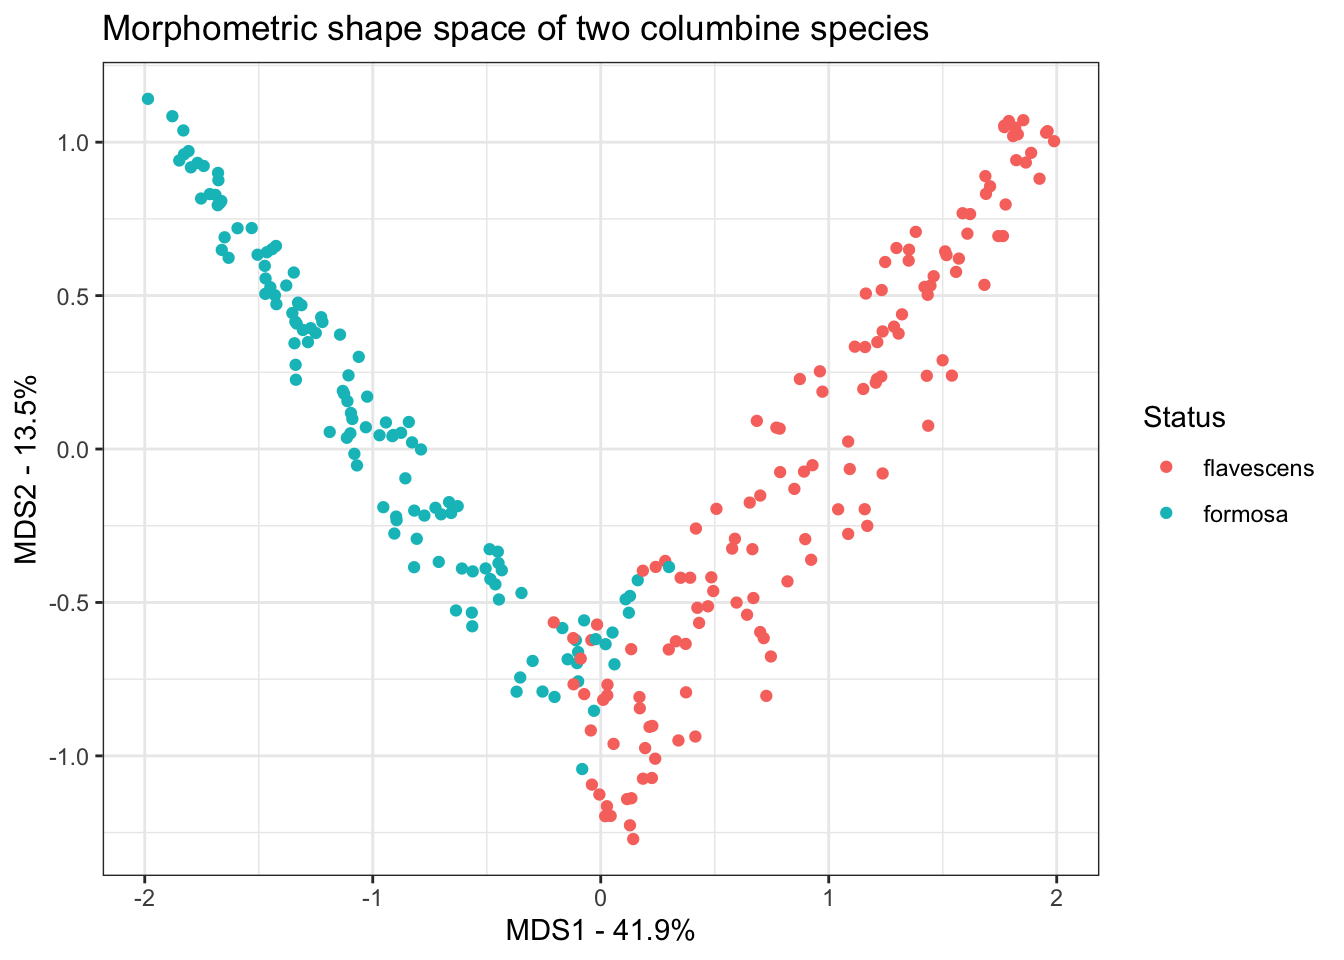
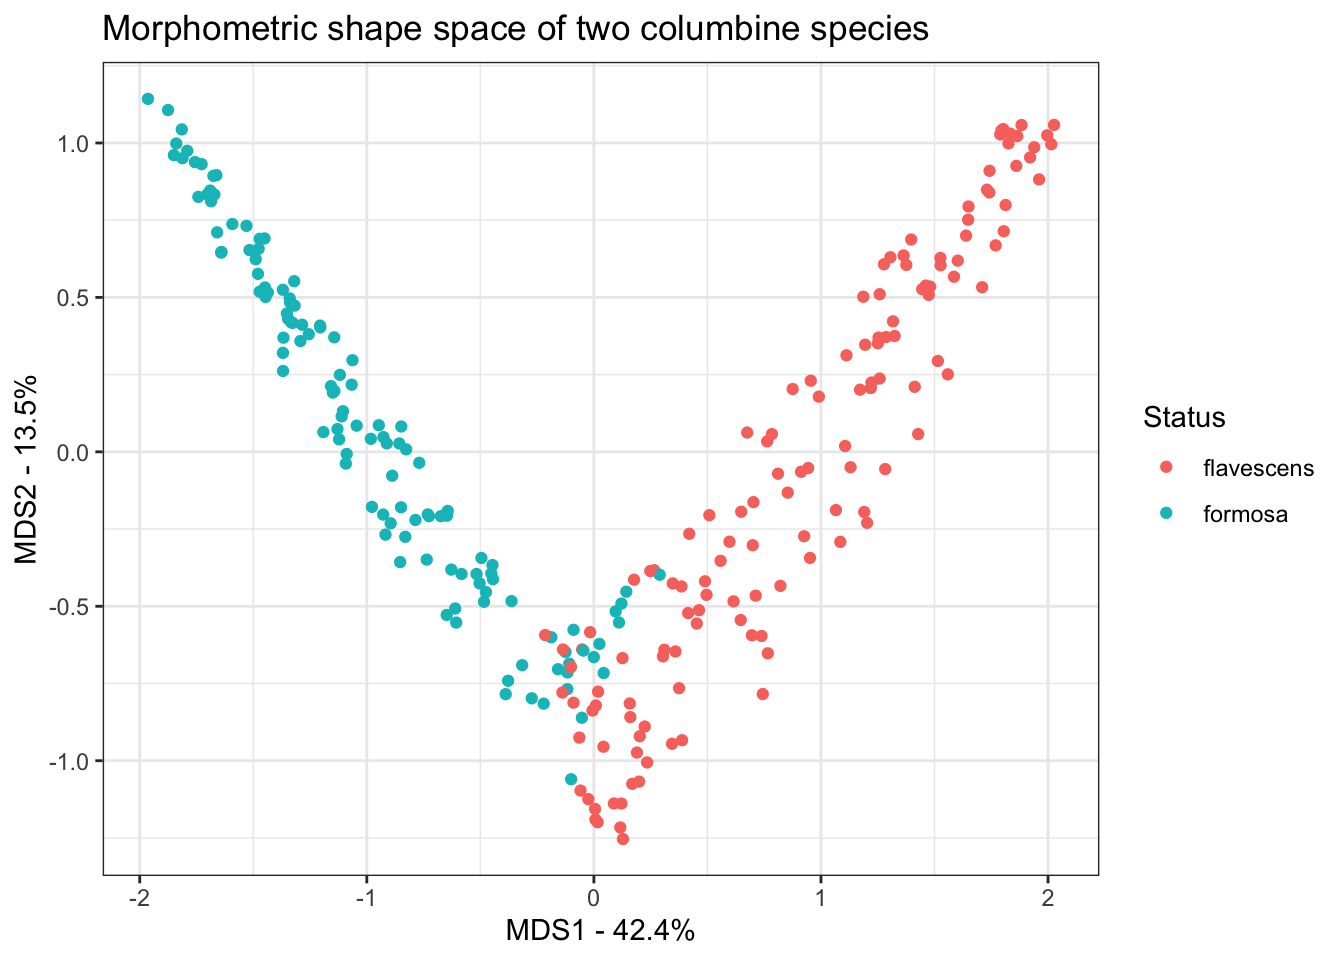
Built lab webpage including linnean typification

diff --git a/docs/BIOL_324_Lab_8.html b/docs/BIOL_324_Lab_8.html
@@ -451,6 +451,9 @@ div.tocify {
     <li>
       <a href="BIOL_324_Project_1.html">Project 1 (iNaturalist)</a>
     </li>
+    <li>
+      <a href="LinneanTypification.html">Linnean Typification</a>
+    </li>
   </ul>
 </li>
 <li class="dropdown">
@@ -768,7 +771,7 @@ div.tocify {
 <span id="cb7-3"><a href="#cb7-3"></a>mds.var.per &lt;-<span class="st"> </span><span class="kw">round</span>(mds.analysis<span class="op">$</span>eig<span class="op">/</span><span class="kw">sum</span>(mds.analysis<span class="op">$</span>eig)<span class="op">*</span><span class="dv">100</span>, <span class="dv">1</span>)</span>
 <span id="cb7-4"><a href="#cb7-4"></a></span>
 <span id="cb7-5"><a href="#cb7-5"></a>mds.var.per[<span class="dv">1</span><span class="op">:</span><span class="dv">2</span>]</span></code></pre></div>
-<pre><code>## [1] 41.9 13.5</code></pre>
+<pre><code>## [1] 42.4 13.5</code></pre>
 <p>The <code>cmdscale()</code> function finds the axes of greatest variation in our morphometrics dataset. For example, if corolla width was the trait that varied the most between all specimens, <code>cmdscale()</code> would assign this variable as <em>MDS axis 1</em>. In reality, it’s unlikely that a single trait will explain the greatest variation in morphology, instead, MDS axes tend to be combinations of traits. In the second step we calculated how much of the total variation of the dataset belongs to each of the MDS axes. The third step prints MDS axes 1 and 2, telling us that MDS axis 1 accounts for 42.3% of the morphological variation in the dataset. Each <em>Aquilegia</em> specimen exists somewhere in the ‘shape space’ created by MDS axes 1 and 2. For example, if MDS axes 1 and 2 described variation in corolla and sepal width, respectively, <em>Aquilegia</em> specimens with wide corollas and sepals would exist in the upper right corner of this ‘shape space’. We’ll see what this looks like in the plotting step. We’ll store the shape space location of each <em>Aquilegia</em> sample in an object called <code>mds.data</code>:</p>
 <div class="sourceCode" id="cb9"><pre class="sourceCode r"><code class="sourceCode r"><span id="cb9-1"><a href="#cb9-1"></a>mds.values &lt;-<span class="st"> </span>mds.analysis<span class="op">$</span>points</span>
 <span id="cb9-2"><a href="#cb9-2"></a>mds.data &lt;-<span class="st"> </span><span class="kw">data.frame</span>(<span class="dt">Sample =</span> <span class="kw">rownames</span>(mds.values),</span>

diff --git a/docs/LinneanTypification.html b/docs/LinneanTypification.html
@@ -359,6 +359,9 @@ div.tocify {
     <li>
       <a href="BIOL_324_Project_1.html">Project 1 (iNaturalist)</a>
     </li>
+    <li>
+      <a href="LinneanTypification.html">Linnean Typification</a>
+    </li>
   </ul>
 </li>
 <li class="dropdown">
@@ -464,6 +467,21 @@ div.tocify {
 <li><a href="https://en.wikipedia.org/wiki/Botanical_Latin">Some general information about botanical Latin</a></li>
 <li>The classic work “Botanical Latin” by W.T. Stearn is not properly on line but is in print and in libraries. <a href="https://archive.org/stream/BOTANICALLATINWILLIAMSTEARN/BOTANICAL%20LATIN%20WILLIAM%20STEARN_djvu.txt">A poor online text of it (that can be searched for words)</a></li>
 <li>The meaning and grammar of Latin terms can be searched in Wiktionary (but bear in mind Wiktionary gives classical Latin information, not botanical Latin, and is incomplete.</li>
+</ul>
+<hr />
+</div>
+<div id="marking-and-due-date" class="section level1">
+<h1>Marking and due date</h1>
+<hr />
+<ul>
+<li><strong>Marks</strong>
+<ul>
+<li>This assignment is worth 3% of your overall mark (associated with the lecture component).</li>
+</ul></li>
+<li><strong>Due date</strong>
+<ul>
+<li>The project will be due at the beginning of Lab 9 (2:00pm November 18th/19th), and you will turn it in on Canvas.</li>
+</ul></li>
 </ul>
 </div>
 

diff --git a/docs/BIOL_324_Lab_1.html b/docs/BIOL_324_Lab_1.html
@@ -359,6 +359,9 @@ div.tocify {
     <li>
       <a href="BIOL_324_Project_1.html">Project 1 (iNaturalist)</a>
     </li>
+    <li>
+      <a href="LinneanTypification.html">Linnean Typification</a>
+    </li>
   </ul>
 </li>
 <li class="dropdown">

diff --git a/docs/BIOL_324_Lab_2.html b/docs/BIOL_324_Lab_2.html
@@ -359,6 +359,9 @@ div.tocify {
     <li>
       <a href="BIOL_324_Project_1.html">Project 1 (iNaturalist)</a>
     </li>
+    <li>
+      <a href="LinneanTypification.html">Linnean Typification</a>
+    </li>
   </ul>
 </li>
 <li class="dropdown">

diff --git a/docs/BIOL_324_Lab_3.html b/docs/BIOL_324_Lab_3.html
@@ -359,6 +359,9 @@ div.tocify {
     <li>
       <a href="BIOL_324_Project_1.html">Project 1 (iNaturalist)</a>
     </li>
+    <li>
+      <a href="LinneanTypification.html">Linnean Typification</a>
+    </li>
   </ul>
 </li>
 <li class="dropdown">

diff --git a/docs/BIOL_324_Lab_4.html b/docs/BIOL_324_Lab_4.html
@@ -359,6 +359,9 @@ div.tocify {
     <li>
       <a href="BIOL_324_Project_1.html">Project 1 (iNaturalist)</a>
     </li>
+    <li>
+      <a href="LinneanTypification.html">Linnean Typification</a>
+    </li>
   </ul>
 </li>
 <li class="dropdown">

diff --git a/docs/BIOL_324_Lab_5.html b/docs/BIOL_324_Lab_5.html
@@ -359,6 +359,9 @@ div.tocify {
     <li>
       <a href="BIOL_324_Project_1.html">Project 1 (iNaturalist)</a>
     </li>
+    <li>
+      <a href="LinneanTypification.html">Linnean Typification</a>
+    </li>
   </ul>
 </li>
 <li class="dropdown">

diff --git a/docs/BIOL_324_Lab_6.html b/docs/BIOL_324_Lab_6.html
@@ -451,6 +451,9 @@ div.tocify {
     <li>
       <a href="BIOL_324_Project_1.html">Project 1 (iNaturalist)</a>
     </li>
+    <li>
+      <a href="LinneanTypification.html">Linnean Typification</a>
+    </li>
   </ul>
 </li>
 <li class="dropdown">

diff --git a/docs/BIOL_324_Lab_7.html b/docs/BIOL_324_Lab_7.html
@@ -451,6 +451,9 @@ div.tocify {
     <li>
       <a href="BIOL_324_Project_1.html">Project 1 (iNaturalist)</a>
     </li>
+    <li>
+      <a href="LinneanTypification.html">Linnean Typification</a>
+    </li>
   </ul>
 </li>
 <li class="dropdown">

diff --git a/docs/BIOL_324_Project_1.html b/docs/BIOL_324_Project_1.html
@@ -359,6 +359,9 @@ div.tocify {
     <li>
       <a href="BIOL_324_Project_1.html">Project 1 (iNaturalist)</a>
     </li>
+    <li>
+      <a href="LinneanTypification.html">Linnean Typification</a>
+    </li>
   </ul>
 </li>
 <li class="dropdown">

diff --git a/docs/Morphological_Terminology.html b/docs/Morphological_Terminology.html
@@ -359,6 +359,9 @@ div.tocify {
     <li>
       <a href="BIOL_324_Project_1.html">Project 1 (iNaturalist)</a>
     </li>
+    <li>
+      <a href="LinneanTypification.html">Linnean Typification</a>
+    </li>
   </ul>
 </li>
 <li class="dropdown">

diff --git a/docs/Syllabus.html b/docs/Syllabus.html
@@ -359,6 +359,9 @@ div.tocify {
     <li>
       <a href="BIOL_324_Project_1.html">Project 1 (iNaturalist)</a>
     </li>
+    <li>
+      <a href="LinneanTypification.html">Linnean Typification</a>
+    </li>
   </ul>
 </li>
 <li class="dropdown">
